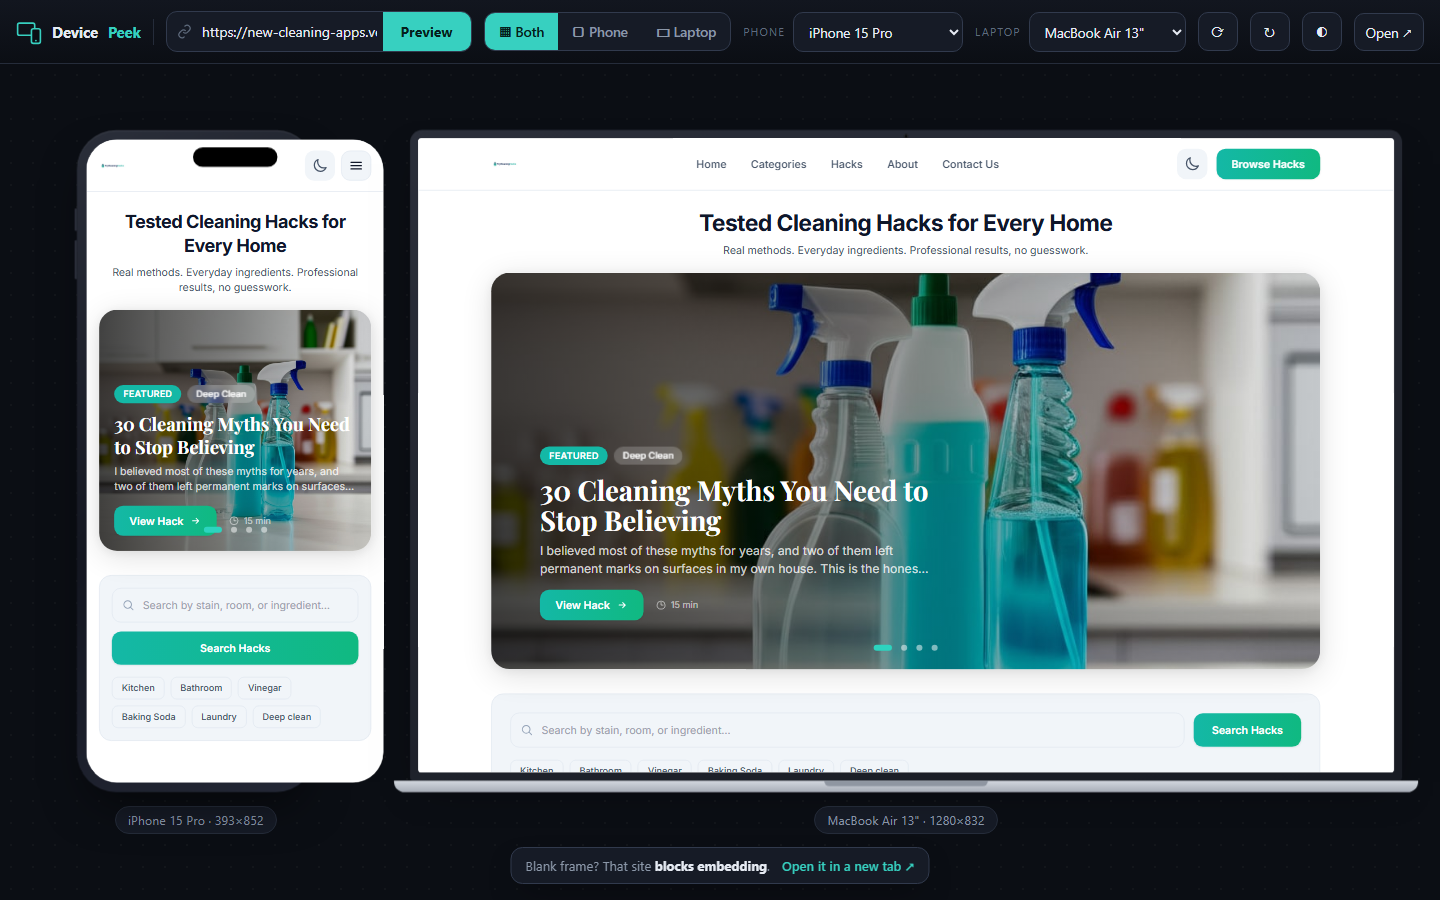
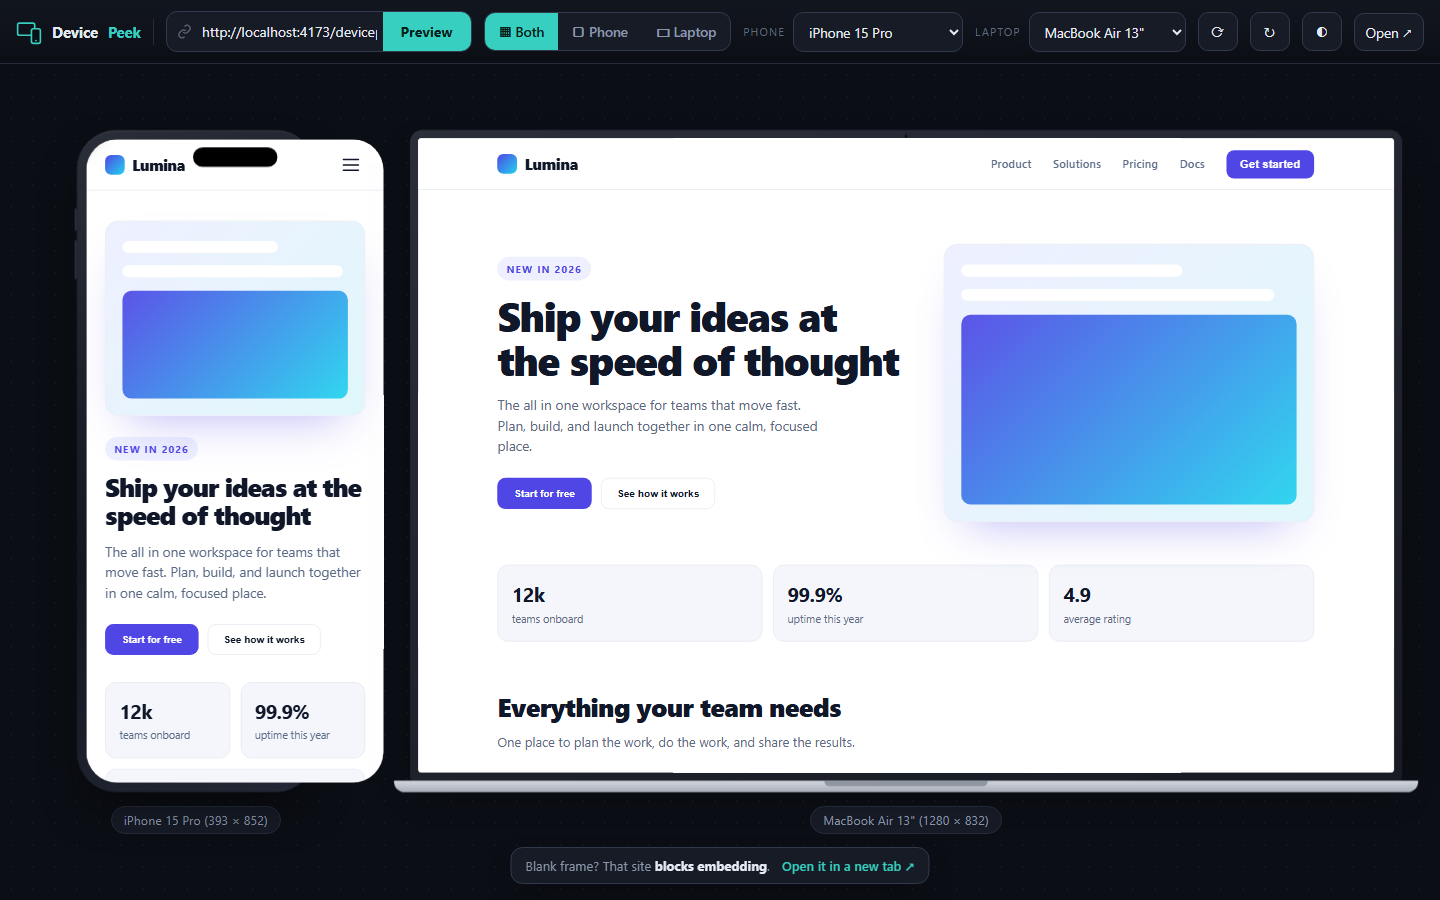
Remove separators from device tags; regenerate dash-free screenshot; add ?url shareable links
- Device tags now read "Name (W x H)" with no middot separators
- Support ?url= query param so preview links are shareable
- Regenerate README screenshot against a clean, dash-free demo page

diff --git a/src/main.ts b/src/main.ts
@@ -113,7 +113,7 @@ function layoutPhone(): Size {
   screenEl.style.height = `${h}px`;
   screenEl.style.borderRadius = `${d.screenRadius}px`;
   el<HTMLElement>("island").className = "island" + (!d.island || landscape ? " hidden" : "");
-  el<HTMLElement>("phoneTag").textContent = `${d.name} · ${w}×${h}`;
+  el<HTMLElement>("phoneTag").textContent = `${d.name} (${w} × ${h})`;
 
   const bezel = d.bezel ?? 0;
   return { w: w + bezel * 2, h: h + bezel * 2 };
@@ -124,7 +124,7 @@ function layoutLaptop(): Size {
   el<HTMLElement>("lscreen").style.width = `${d.w}px`;
   el<HTMLElement>("lscreen").style.height = `${d.h}px`;
   el<HTMLElement>("lbase").style.width = `${d.w + 64}px`;
-  el<HTMLElement>("laptopTag").textContent = `${d.name} · ${d.w}×${d.h}`;
+  el<HTMLElement>("laptopTag").textContent = `${d.name} (${d.w} × ${d.h})`;
   return { w: d.w + 22, h: d.h + 22 + 15 };
 }
 
@@ -199,5 +199,7 @@ window.addEventListener("resize", fit);
 
 // ---- init ----
 document.documentElement.dataset.stage = readStore("dp_stage") ?? "dark";
-loadUrl(readStore("dp_url") ?? DEFAULT_URL);
+// A ?url= query param wins, so preview links are shareable (e.g. ?url=example.com).
+const paramUrl = new URLSearchParams(location.search).get("url");
+loadUrl(paramUrl ?? readStore("dp_url") ?? DEFAULT_URL);
 fit();

diff --git a/README.md b/README.md
@@ -19,6 +19,7 @@ Live app: https://fredler21.github.io/devicepeek/
 
 - iPhone and laptop, together, so you can spot responsive breakpoints at a glance
 - Any URL, including your deploys, preview links, or `localhost` for live local dev
+- Shareable preview links. Add `?url=example.com` to the address and DevicePeek opens with that site already loaded
 - Device presets: iPhone 15 Pro, Pro Max, and SE, Pixel 8, Galaxy S23, plus MacBook Air, 1366, 1440, and 1024 laptops
 - Rotate, reload, open in a new tab, and a light or dark backdrop toggle
 - True responsive rendering. Each frame is a real iframe at that device's CSS width, so media queries fire exactly as they do on the device